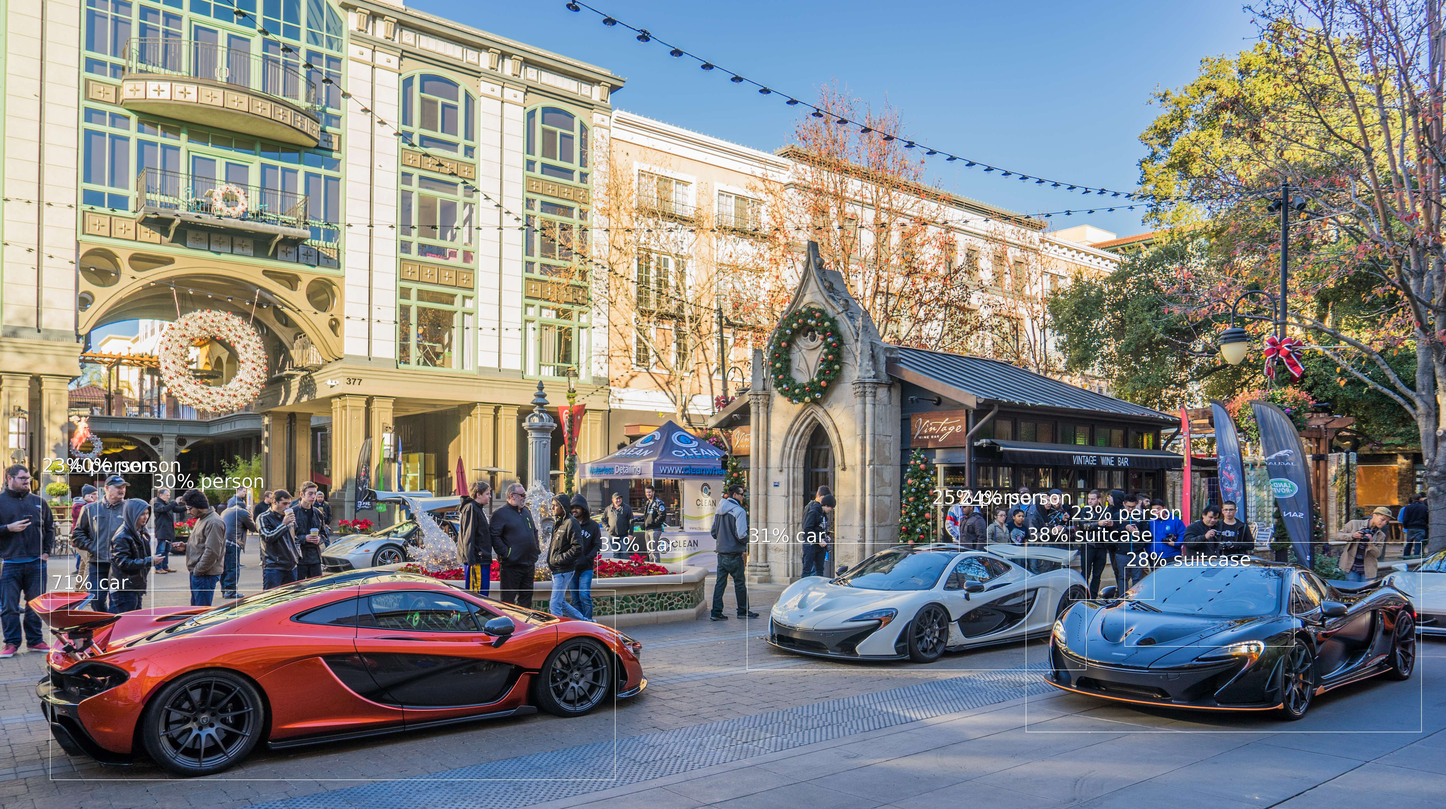
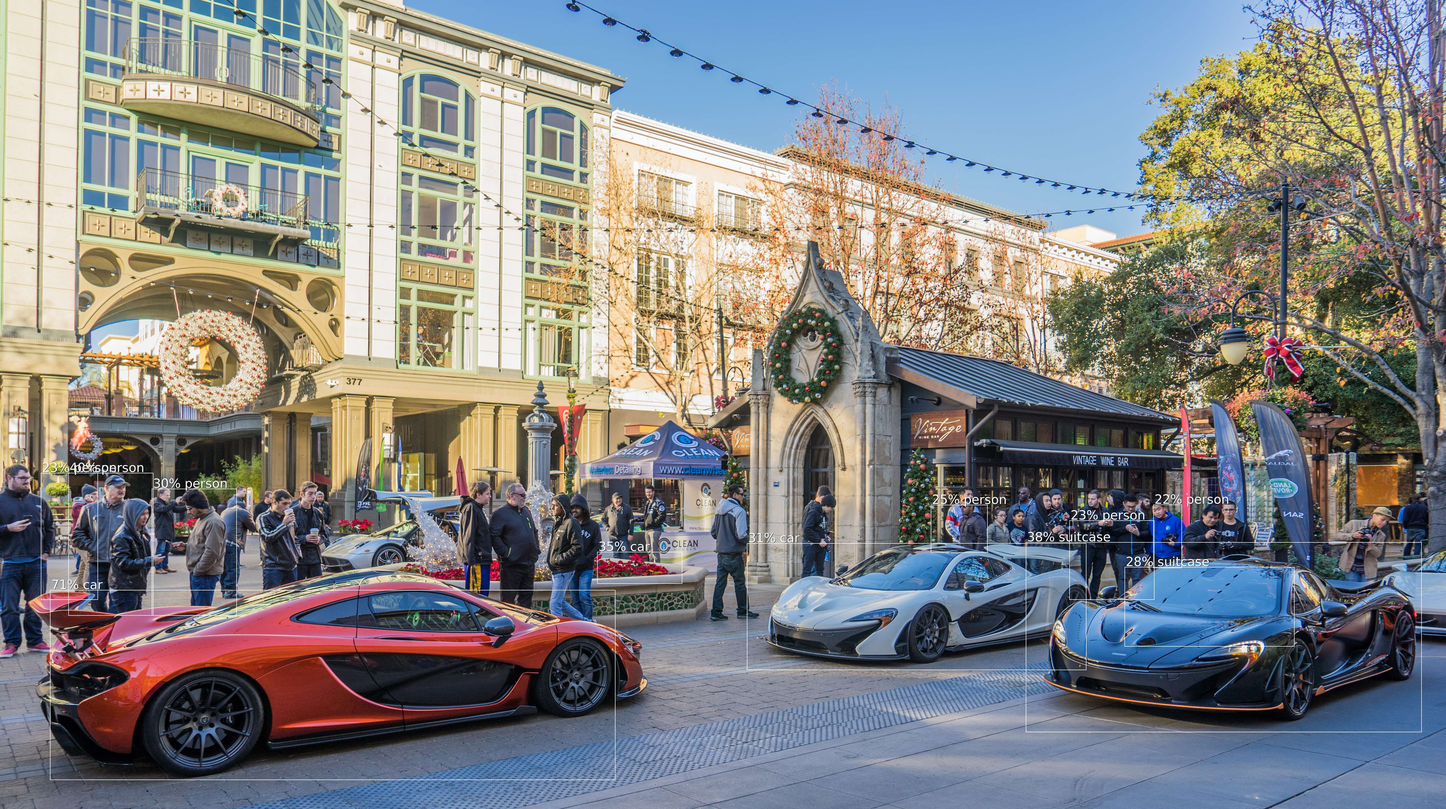
fine-tuning

diff --git a/nanodet.js b/nanodet.js
@@ -7,11 +7,12 @@ const canvas = require('canvas');
 const { labels } = require('./coco-labels');
 
 const modelOptions = {
-  modelPath: 'file://model-tfjs-graph-t/nanodet.json',
-  minScore: 0.23, // low confidence, but still remove irrelevant
-  iouThreshold: 0.5, // percentage when removing overlapped boxes
+  modelPath: 'file://model-tfjs-graph-m/nanodet.json',
+  minScore: 0.20, // low confidence, but still remove irrelevant
+  iouThreshold: 0.40, // percentage when removing overlapped boxes
   maxResults: 20, // high number of results, but likely never reached
   scaleBox: 2.5, // increase box size
+  activateScore: false, // use exponential function to active scores or use them as-is
 };
 
 // save image with processed results
@@ -24,20 +25,19 @@ async function saveImage(img, res) {
   const original = await canvas.loadImage(img.fileName);
   ctx.drawImage(original, 0, 0, c.width, c.height);
   // const fontSize = Math.trunc(c.width / 50);
-  const fontSize = Math.round(Math.sqrt(c.width));
+  const fontSize = Math.round(Math.sqrt(c.width) / 1.5);
   ctx.lineWidth = 2;
   ctx.strokeStyle = 'white';
-  ctx.fillStyle = 'white';
   ctx.font = `${fontSize}px "Segoe UI"`;
 
   // draw all detected objects
   for (const obj of res) {
     // draw label at center
-    // ctx.fillText(`${Math.round(100 * obj.score)}% [${obj.strideSize}] #${obj.class} ${obj.label}`, obj.box[0] + 4, obj.box[1] - 2);
     ctx.fillStyle = 'black';
     ctx.fillText(`${Math.round(100 * obj.score)}% ${obj.label}`, obj.box[0] + 5, obj.box[1] - 3);
     ctx.fillStyle = 'white';
     ctx.fillText(`${Math.round(100 * obj.score)}% ${obj.label}`, obj.box[0] + 4, obj.box[1] - 4);
+    // ctx.fillText(`${Math.round(100 * obj.score)}% [${obj.strideSize}] #${obj.class} ${obj.label}`, obj.box[0] + 4, obj.box[1] - 4);
     // draw rect using x,y,h,w
     ctx.rect(obj.box[0], obj.box[1], obj.box[2] - obj.box[0], obj.box[3] - obj.box[1]);
   }
@@ -83,14 +83,13 @@ async function processResults(res, inputSize, outputShape) {
       const featuresT = res.find((a) => (a.shape[1] === (baseSize ** 2) && a.shape[2] < 80))?.squeeze();
       log.state('Found features tensor:', featuresT?.shape);
       log.state('Found scores tensor:', scoresT?.shape);
-      // const scoreIdx = scores.argMax(1).dataSync(); // location of highest scores for a given stride
-      // const scoresMax = scores.max(1).dataSync(); // values of highest scores for a given stride
-      const boxesMax = featuresT.reshape([-1, 4, featuresT.shape[1] / 4]); // reshape [32] to [4,8] where 8 is change of different features inside stride
+      const boxesMax = featuresT.reshape([-1, 4, featuresT.shape[1] / 4]); // reshape [output] to [4, output / 4] where number is number of different features inside each stride
       const boxIdx = boxesMax.argMax(2).arraySync(); // what we need is indexes of features with highest scores, not values itself
-      const scores = scoresT.arraySync();
-      for (let i = 0; i < scoresT.shape[0]; i++) {
-        for (let j = 0; j < scoresT.shape[1]; j++) {
-          if (scores[i][j] > modelOptions.minScore) {
+      const scores = modelOptions.activateScore ? scoresT.exp(1).arraySync() : scoresT.arraySync(); // optionally use exponential scores or just as-is
+      for (let i = 0; i < scoresT.shape[0]; i++) { // total strides (x * y matrix)
+        for (let j = 0; j < scoresT.shape[1]; j++) { // one score for each class
+          const score = scores[i][j] - (modelOptions.activateScore ? 1 : 0); // get score for current position
+          if (score > modelOptions.minScore) {
             const cx = (0.5 + Math.trunc(i % baseSize)) / baseSize; // center.x normalized to range 0..1
             const cy = (0.5 + Math.trunc(i / baseSize)) / baseSize; // center.y normalized to range 0..1
             const boxOffset = boxIdx[i].map((a) => a * (baseSize / strideSize / inputSize)); // just grab indexes of features with highest scores
@@ -110,7 +109,7 @@ async function processResults(res, inputSize, outputShape) {
             const result = {
               id: id++,
               strideSize,
-              score: scores[i][j],
+              score,
               class: j + 1,
               label: labels[j].label,
               center: [Math.trunc(outputShape[0] * cx), Math.trunc(outputShape[1] * cy)],
@@ -121,9 +120,6 @@ async function processResults(res, inputSize, outputShape) {
             results.push(result);
           }
         }
-        /*
-        if (scoreIdx[i] !== 0 && scoresMax[i] > modelOptions.minScore) {
-        */
       }
     });
   }
